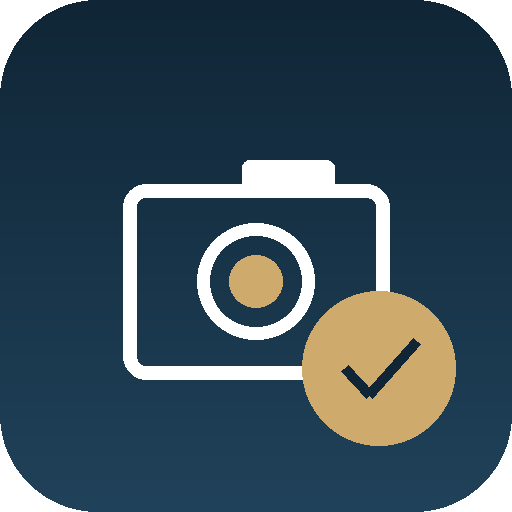
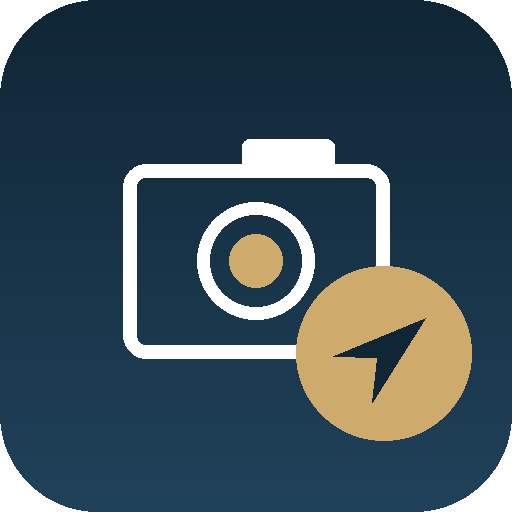
Nome e logótipo próprios: Bate & Envia + botão de instalar
- Nome escolhido pelo utilizador, 2026-09-09: 'bater uma foto' é a forma
  coloquial portuguesa de dizer tirar uma foto -- descreve bem o que a
  app faz, mesmo espírito do 'Corte & Costura'.
- Ícone novo: câmara + seta de envio (em vez do check), mesma paleta
  dourado/petróleo da Vanessa Branco.
- Cabeçalho agora mostra o logótipo + nome da app em destaque, com
  'Vanessa Branco -- Accounting and Finance' como atribuição por baixo,
  em vez do inverso.
- Botão 'Fixar app no ecrã principal' -- captura beforeinstallprompt no
  Android/Chrome; no iOS (que não expõe essa API) mostra os passos
  manuais em texto. Nenhum dos dois aparece se já estiver instalada.

Claude-Session: https://claude.ai/code/session_01PvTkQq4SphxRQnfRABbZn1

diff --git a/index.html b/index.html
@@ -3,14 +3,14 @@
 <head>
 <meta charset="utf-8">
 <meta name="viewport" content="width=device-width, initial-scale=1, viewport-fit=cover">
-<title>Enviar Documentos — Vanessa Branco</title>
+<title>Bate & Envia — Vanessa Branco</title>
 <meta name="theme-color" content="#0f2636">
 <link rel="manifest" href="manifest.json">
 <link rel="icon" href="favicon-32.png" sizes="32x32">
 <link rel="apple-touch-icon" href="icon-apple-touch.png">
 <meta name="apple-mobile-web-app-capable" content="yes">
 <meta name="apple-mobile-web-app-status-bar-style" content="black-translucent">
-<meta name="apple-mobile-web-app-title" content="Enviar Docs">
+<meta name="apple-mobile-web-app-title" content="Bate & Envia">
 <style>
   :root{
     --navy-900:#0a1c29;
@@ -53,24 +53,32 @@
     overflow-y:auto;
   }
   header.topo{
-    padding:14px 0 8px;
-    text-align:center;
+    padding:16px 0 10px;
     flex-shrink:0;
+    display:flex;
+    align-items:center;
+    justify-content:center;
+    gap:10px;
   }
   /* Ver mostrarTela() em app.js -- ganha espaço vertical precioso durante
      a câmara, onde a marca não faz falta nenhuma. */
   body.camara-ativa header.topo{display:none;}
+  header.topo .logo-app{
+    width:38px; height:38px;
+    border-radius:10px;
+    flex-shrink:0;
+  }
+  header.topo .marca-textos{text-align:left;}
   header.topo .marca{
-    font-size:13px;
-    letter-spacing:.06em;
-    text-transform:uppercase;
-    color:var(--gold);
-    font-weight:600;
+    font-size:15px;
+    font-weight:700;
+    color:var(--white);
+    line-height:1.2;
   }
   header.topo .marca-sub{
-    font-size:11px;
+    font-size:10.5px;
     color:var(--muted);
-    margin-top:2px;
+    margin-top:1px;
   }
   .tela{
     display:none;
@@ -90,11 +98,20 @@
   .icone-camara-grande{
     width:84px; height:84px; margin:6px auto 0;
     border-radius:22px;
-    background:linear-gradient(160deg,var(--navy-700),var(--navy-800));
-    display:flex; align-items:center; justify-content:center;
+    display:block;
     box-shadow:0 8px 24px rgba(0,0,0,.35);
   }
-  .icone-camara-grande svg{width:42px; height:42px;}
+  .btn-instalar{
+    background:none; border:1.5px solid var(--navy-700);
+    color:var(--gold); font-weight:700; font-size:14px;
+    border-radius:12px; padding:12px 18px; width:100%;
+    margin-top:2px;
+  }
+  .btn-instalar:active{background:var(--navy-800);}
+  .nota-instalar-ios{
+    font-size:12.5px; color:var(--muted); line-height:1.5;
+    padding:0 8px; margin:0;
+  }
 
   /* --- Câmara --- */
   #tela-camara{gap:10px; padding-bottom:10px;}
@@ -243,21 +260,21 @@
 <body>
 <div class="app">
   <header class="topo">
-    <div class="marca">Vanessa Branco</div>
-    <div class="marca-sub">Accounting and Finance</div>
+    <img class="logo-app" src="icon-192.png" alt="">
+    <div class="marca-textos">
+      <div class="marca">Bate & Envia</div>
+      <div class="marca-sub">Vanessa Branco — Accounting and Finance</div>
+    </div>
   </header>
 
   <!-- TELA: Início -->
   <section id="tela-inicio" class="tela ativa">
-    <div class="icone-camara-grande">
-      <svg viewBox="0 0 24 24" fill="none" stroke="#ceab6d" stroke-width="1.6">
-        <path d="M4 8a2 2 0 0 1 2-2h1.2l.9-1.4A1 1 0 0 1 9 4h6a1 1 0 0 1 .9.6L16.8 6H18a2 2 0 0 1 2 2v9a2 2 0 0 1-2 2H6a2 2 0 0 1-2-2V8Z"/>
-        <circle cx="12" cy="13" r="3.4"/>
-      </svg>
-    </div>
-    <h1>Enviar um documento</h1>
+    <img class="icone-camara-grande" src="icon-512.png" alt="Bate & Envia">
+    <h1>Bate & Envia</h1>
     <p>Tiras 2 fotos rápidas a cada documento (fatura, recibo, extrato...): uma bem perto do código QR, outra ao documento completo. Depois enviamos tudo junto por email.</p>
     <button class="btn-principal btn-full" id="btn-iniciar">Tirar Fotos</button>
+    <button class="btn-instalar oculto" id="btn-instalar">📌 Fixar app no ecrã principal</button>
+    <p class="nota-instalar-ios oculto" id="nota-instalar-ios">Para fixares no ecrã principal: toca em <strong>Partilhar</strong> (⬆) e depois em <strong>"Adicionar ao Ecrã Principal"</strong>.</p>
   </section>
 
   <!-- TELA: Câmara (reaproveitada para os 2 passos -- ver app.js, etapaAtual) -->

diff --git a/app.js b/app.js
@@ -425,3 +425,54 @@ if ("serviceWorker" in navigator) {
     });
   });
 }
+
+// ---------------------------------------------------------------------
+// "Fixar app no ecrã principal" -- pedido explícito do utilizador,
+// 2026-09-09, para não depender do cliente encontrar isto sozinho no
+// menu do browser.
+//
+// Android/Chrome: o browser dispara "beforeinstallprompt" quando a app
+// cumpre os requisitos de instalação (manifest válido, HTTPS, service
+// worker) -- guarda esse evento e usa-o quando o cliente tocar no botão.
+// iOS/Safari nunca dispara este evento (Apple não expõe esta API por
+// código nenhum) -- nesse caso mostra-se antes o texto com os passos
+// manuais ("Partilhar" -> "Adicionar ao Ecrã Principal").
+// Se a app já estiver a correr instalada (modo standalone), não faz
+// sentido mostrar nenhum dos dois.
+// ---------------------------------------------------------------------
+const btnInstalar = document.getElementById("btn-instalar");
+const notaInstalarIos = document.getElementById("nota-instalar-ios");
+let promptInstalacaoDiferido = null;
+
+function aCorrerInstalada() {
+  return (
+    window.matchMedia("(display-mode: standalone)").matches ||
+    window.navigator.standalone === true // Safari iOS
+  );
+}
+
+const ehIos = /iphone|ipad|ipod/i.test(navigator.userAgent);
+
+if (!aCorrerInstalada()) {
+  if (ehIos) {
+    notaInstalarIos.classList.remove("oculto");
+  } else {
+    window.addEventListener("beforeinstallprompt", (evento) => {
+      evento.preventDefault();
+      promptInstalacaoDiferido = evento;
+      btnInstalar.classList.remove("oculto");
+    });
+  }
+}
+
+btnInstalar.addEventListener("click", async () => {
+  if (!promptInstalacaoDiferido) return;
+  promptInstalacaoDiferido.prompt();
+  await promptInstalacaoDiferido.userChoice;
+  promptInstalacaoDiferido = null;
+  btnInstalar.classList.add("oculto");
+});
+
+window.addEventListener("appinstalled", () => {
+  btnInstalar.classList.add("oculto");
+});

diff --git a/service-worker.js b/service-worker.js
@@ -9,7 +9,7 @@
 // para ele. Sem isto, quem já tinha a app aberta/instalada continuava a
 // ver a versão antiga em cache, mesmo depois de publicada a correção.
 // Bug real, visto em teste, 2026-09-09.
-const CACHE_NOME = "docs-cliente-v4";
+const CACHE_NOME = "docs-cliente-v5";
 const FICHEIROS_CASCA = [
   "./",
   "./index.html",
